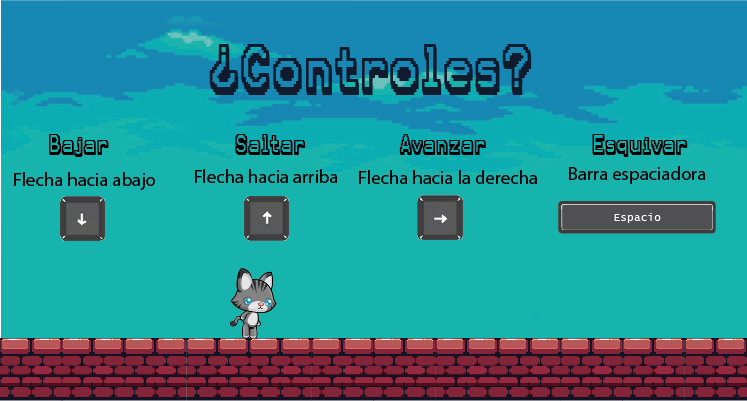
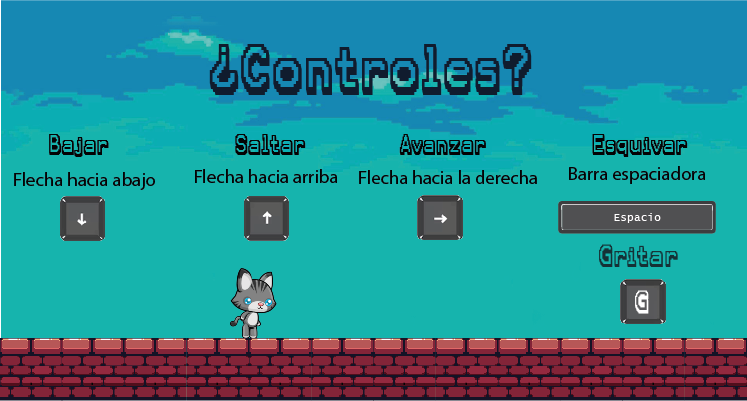
feat: added shouting ability

Changed region(s): [[0.8005, 0.5985, 0.9237, 0.808]]

diff --git a/js/main.js b/js/main.js
@@ -21,14 +21,40 @@ var dude,
   nivel = 1,
   count = 0,
   jumpActiveCount = 0,
+  soundActive = false,
+  audioContext = new AudioContext(),
+  microphone = null,
+  analyzer = null,
+  soundThreshold = 12,
+  dogActive = null,
+  t3,
+  killedByVoice =0,
   imagen;
 
 var mapa = [1, 1, 1, 1, 1, 1];
 
 var mainState = {
   preload: function () {
+    navigator.mediaDevices.getUserMedia({ audio: true })
+    .then(function(stream) {
+      console.log("Acceso al micrófono concedido");
+      soundActive = true;
+      navigator.mediaDevices.getUserMedia({ audio: true })
+      .then(function(stream) {
+        microphone = audioContext.createMediaStreamSource(stream);
+        analyzer = audioContext.createAnalyser();
+        microphone.connect(analyzer);
+      })
+      .catch(function(err) {
+        console.log(err);
+      });
+    })
+    .catch(function(err) {
+      alert("No se puede acceder al micrófono, por favor permita el acceso a su micrófono")
+    });
     jumpKey = game.input.keyboard.addKey(Phaser.Keyboard.UP);
     jumpSound = game.add.audio("jump");
+    shoutKey = game.input.keyboard.addKey(Phaser.Keyboard.G);
     if (!game.device.desktop) {
       game.scale.scaleMode = Phaser.ScaleManager.SHOW_ALL;
       game.scale.setMinMax(
@@ -257,6 +283,12 @@ var mainState = {
     var style4 = { font: "20px Arial", fill: "#00ff00" };
     this.camuflajeText = this.game.add.text(177, 50, "", style4);
 
+    // SHOUTING THRESHOLD USING ASCII ART
+
+    if (soundActive){
+      t3 = this.game.add.text(10, 80, "Voz para asustar perros: □", style1);
+      t3.fixedToCamera = true;
+    }
     //recordatorio de reglas
     var reglas = { font: "14px Arial", fill: "#00ff00" };
     var text = this.game.add.text(450, 10, "Comandos:", reglas);
@@ -327,6 +359,26 @@ var mainState = {
     );
 
     if (dude.alive) {
+      if (soundActive && shoutKey.isDown) {
+        if (analyzer) {
+          t3.setText(`Voz para asustar perros: ${"■".repeat(killedByVoice+1)}`);
+          var dataArray = new Uint8Array(analyzer.frequencyBinCount);
+          analyzer.getByteFrequencyData(dataArray);
+          var total = 0;
+          for (var i = 0; i < dataArray.length; i++) {
+            total += dataArray[i];
+          }
+          var average = total / dataArray.length;
+          console.log(average);
+          if (average > soundThreshold*(killedByVoice+1)) {
+            if (dogActive) {
+              dogActive.kill();
+              dogActive = null;
+              killedByVoice++;
+            }
+          }
+        }
+      }
       if (dude.body.touching.down) {
         jumpActiveCount = 0;
         game.add.tween(dude).to({ angle: -0 }, 100).start();
@@ -415,12 +467,19 @@ var mainState = {
       game.height - this.sizeBloque - 55,
       "perrito"
     );
+    dogActive = perro;
     enemigos.add(perro);
     game.physics.arcade.enable(perro);
     perro.body.velocity.x = this.nivelVelocidad - 100;
     perro.animations.add("left", [2, 1, 0, 5, 4, 3, 8, 7, 6], 15, true);
     perro.animations.play("left");
     perro.scale.setTo(0.8, 0.8);
+    perro.checkWorldBounds = true;
+    perro.outOfBoundsKill = true;
+    perro.events.onOutOfBounds.add(function () {
+      dogActive = null;
+    })
+    
   },
 
   gritar: function (dude, enemigos) {
